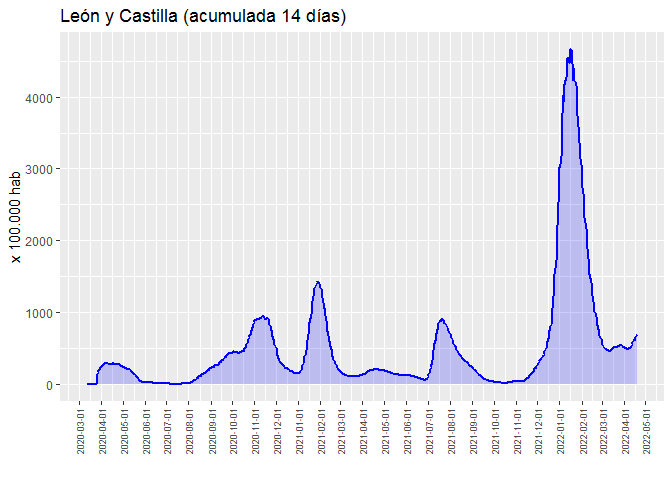
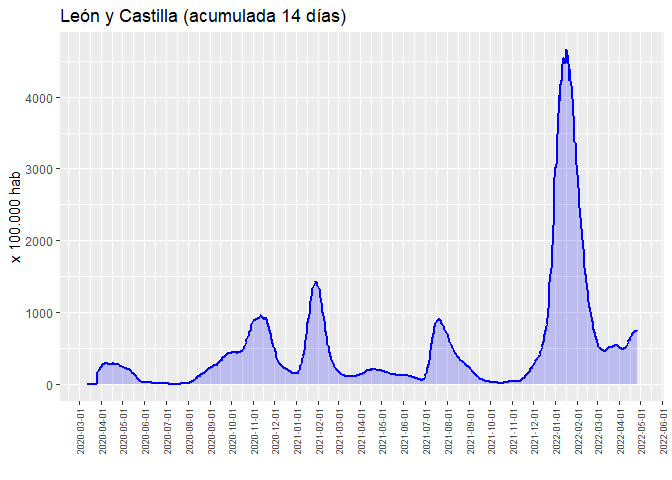
update

diff --git a/README.md b/README.md
@@ -1,7 +1,7 @@
 Covid-19: Incidencia acumulada
 ================
 JMSS \[Usal - CIC\]
-(updated: 21 abr 2022)
+(updated: 28 abr. 2022)
 
 ### Incidencia acumulada del Covid19 por cada 100.000 habitantes
 
